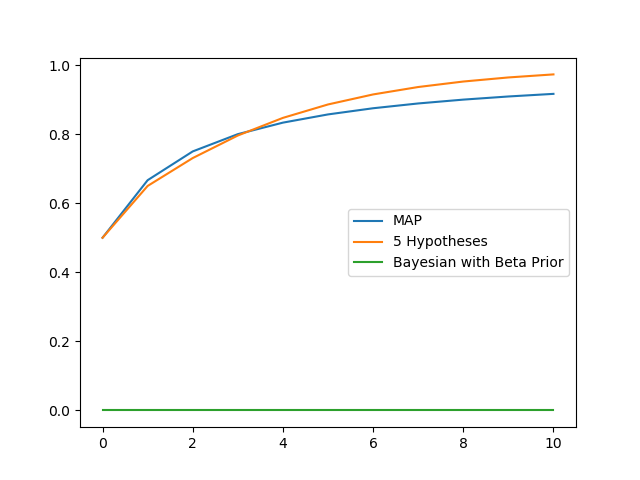
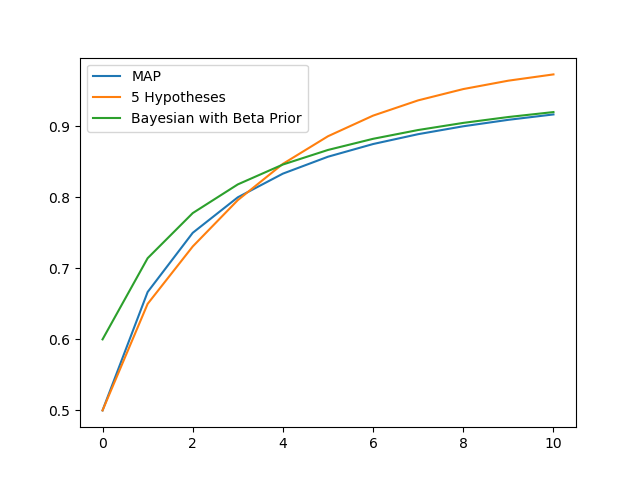
adding infinite hypothesis

diff --git a/bayesian.py b/bayesian.py
@@ -86,18 +86,18 @@ class Posterior:
                 # iterate over all the samples
                 product = 1
                 for j in range(lime):
-                    print(lime)
-                    if (j < self.limes[lime]):
+                    # print(lime)
+                    if (j <= self.limes[lime]):
                         product = product * lime_probs[i]
                     else:
                         product = product * (1- lime_probs[i])
                 sum_lime += local_sum_lime * product
                 sum_cherry += local_sum_cherry * product
             final_sum = (sum_lime/(sum_lime+sum_cherry))
-            print("sum of limes is: " + str(sum_lime))
-            print("sum of cherries is: " + str(sum_cherry))
-            print("final sum: " + str(final_sum))
-            print("cherry sum: " + str((sum_cherry)/(sum_lime + sum_cherry)))
+            # print("sum of limes is: " + str(sum_lime))
+            # print("sum of cherries is: " + str(sum_cherry))
+            # print("final sum: " + str(final_sum))
+            # print("cherry sum: " + str((sum_cherry)/(sum_lime + sum_cherry)))
             lime_list[lime] = final_sum
 
         print(lime_list[lime])
@@ -109,8 +109,16 @@ class Posterior:
         :return: estimates for diff. values of lime; shape:(N,)
         """
         # WRITE the required CODE HERE and return the computed values
+        infinite = np.zeros(self.N)
+        local_b = self.b
+        for x in range(self.N):
+            local_b += 1
+            more_limes = ((gamma(self.a)*gamma(local_b + 1 + x))/gamma(self.a + local_b + 1 + x))
+            more_cherries = ((gamma(self.a + 1)*gamma(local_b + x))/gamma(self.a + local_b + 1 + x))
+            infinite[x] = more_limes/(more_cherries + more_limes)
+        print(infinite)
+        return infinite
 
-        return np.zeros(self.N)
 
 if __name__ == '__main__':
     # Get data
